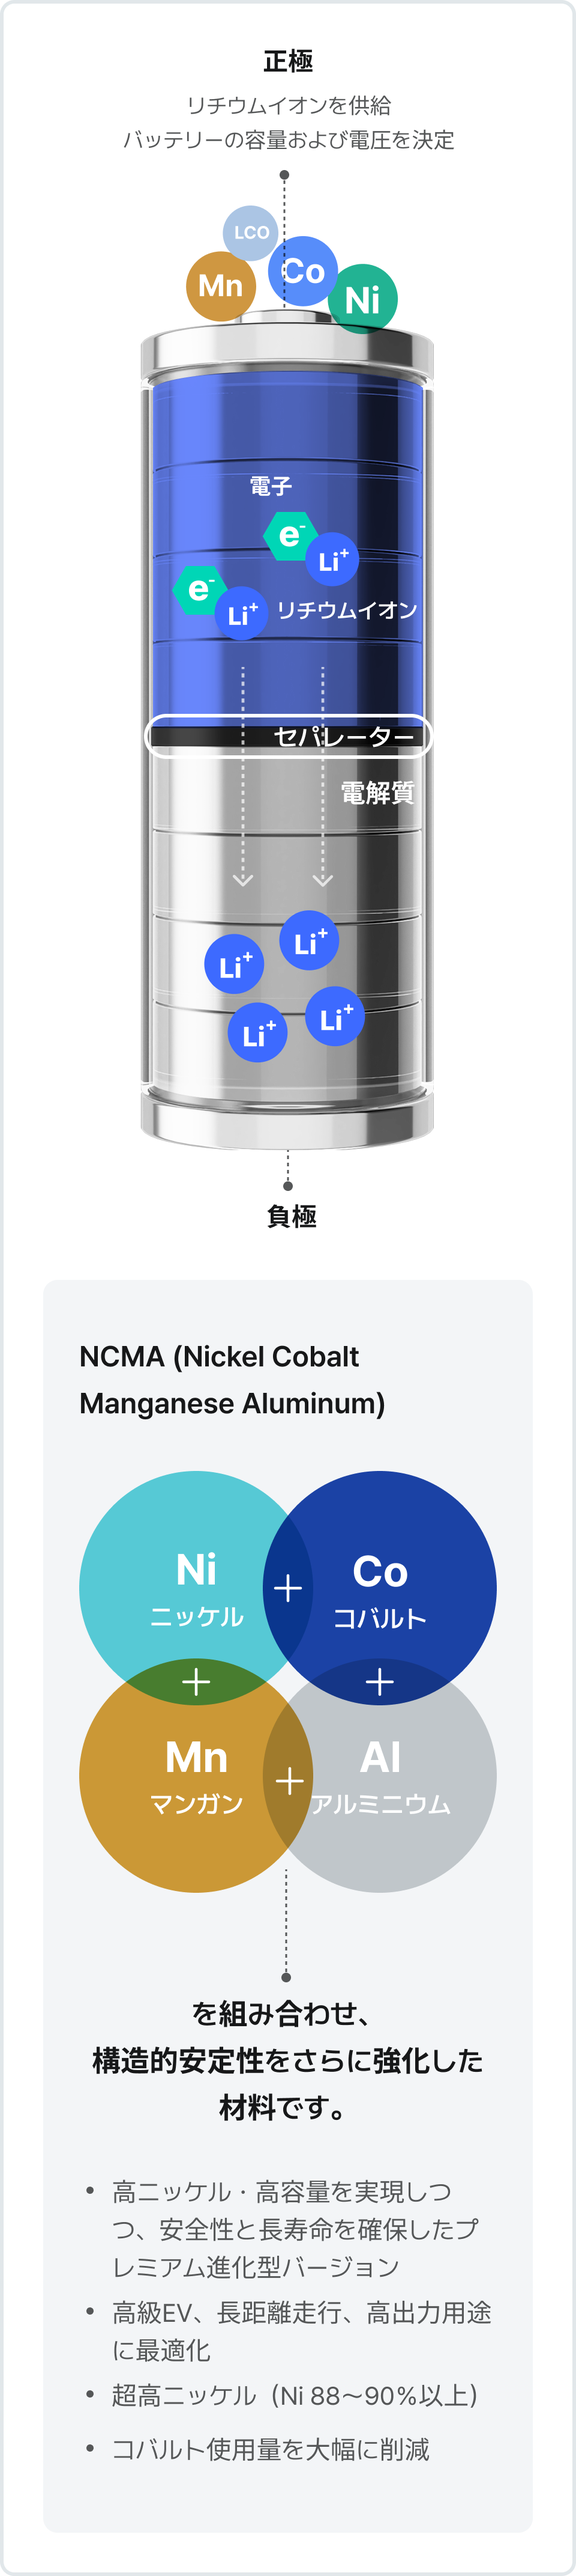
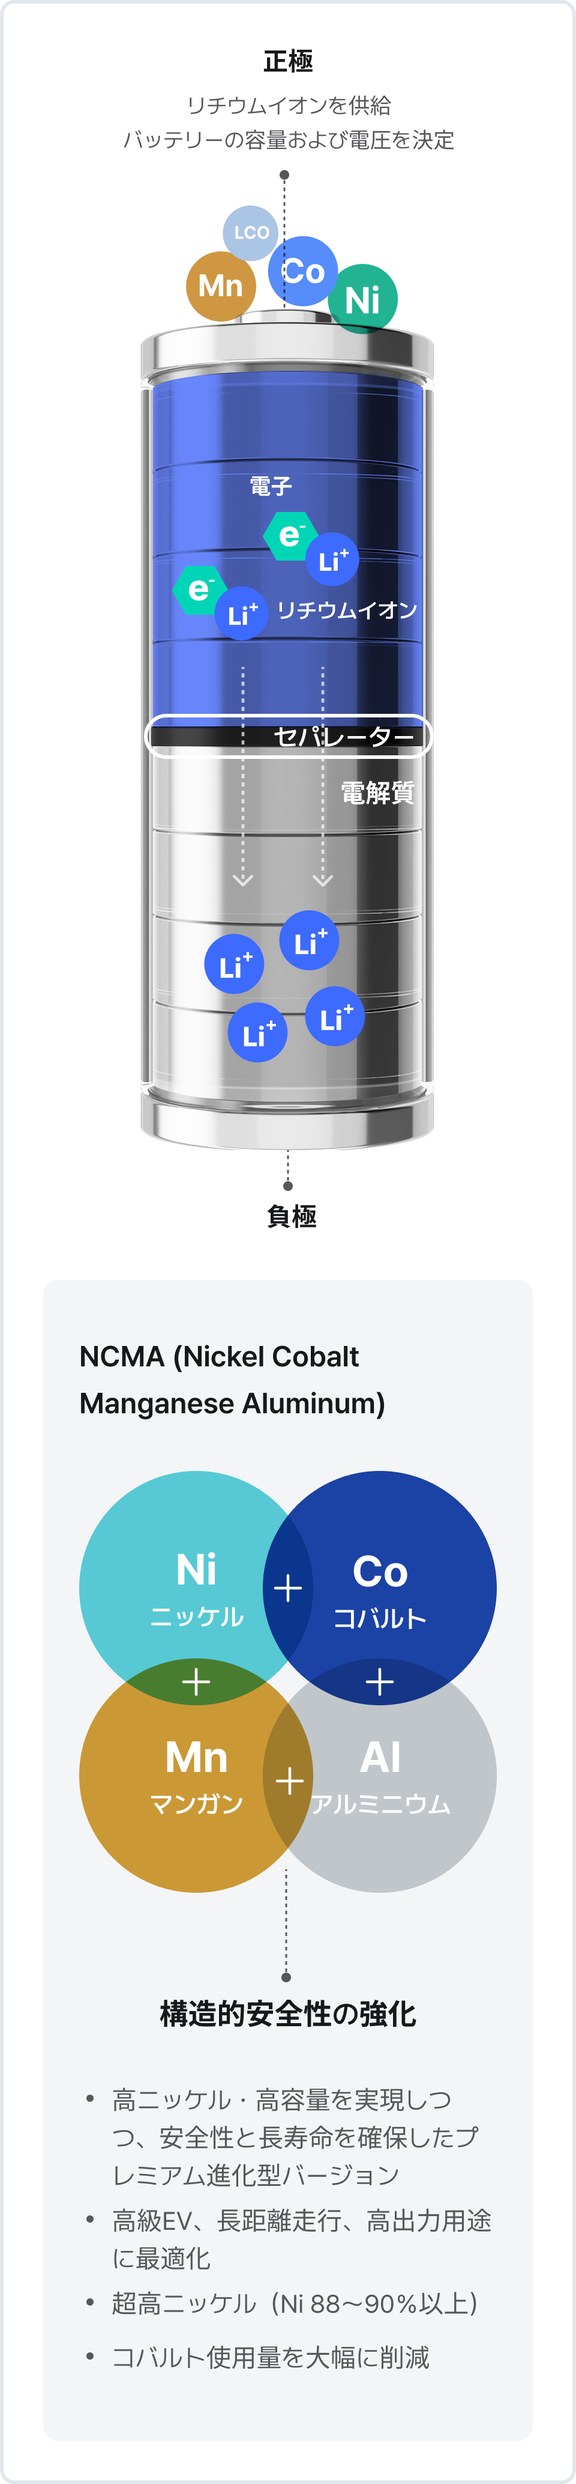
제품 검수 반영

Changed region(s): [[0.125, 0.0, 0.875, 0.9673], [0.8125, 0.7801, 0.8438, 0.8113]]

diff --git a/public/src/pages_ja/prod/prod_indus_psg_01_mo.html b/public/src/pages_ja/prod/prod_indus_psg_01_mo.html
@@ -133,7 +133,7 @@
                                                 <div class="btn-wrap">
                                                     <a href="#" class="icon-btn-lg icon-right2">
                                                         <img alt="" src="../../../inc/images/img/pind_btn_icon1.png">
-                                                        <span>円筒型電池</span>
+                                                        <span>円筒形電池</span>
                                                         <div class="icon-area"><span class="blind">現在のウィンドウで開く</span>
                                                         </div>
                                                     </a>
@@ -303,7 +303,7 @@
                                                 <div class="btn-wrap">
                                                     <a href="#" class="icon-btn-lg icon-right2">
                                                         <img alt="" src="../../../inc/images/img/pind_btn_icon1.png">
-                                                        <span>円筒型電池</span>
+                                                        <span>円筒形電池</span>
                                                         <div class="icon-area"><span class="blind">現在のウィンドウで開く</span>
                                                         </div>
                                                     </a>
@@ -640,7 +640,7 @@
                                                 <div class="btn-wrap">
                                                     <a href="#" class="icon-btn-lg icon-right2">
                                                         <img alt="" src="../../../inc/images/img/pind_btn_icon1.png">
-                                                        <span>円筒型電池</span>
+                                                        <span>円筒形電池</span>
                                                         <div class="icon-area"><span class="blind">現在のウィンドウで開く</span>
                                                         </div>
                                                     </a>
@@ -822,7 +822,7 @@
                                                         <p>セル</p>
                                                     </li>
                                                     <li>
-                                                        <p>モジュール</p>
+                                                        <p>パック</p>
                                                     </li>
                                                 </ul>
                                             </div>
@@ -950,7 +950,7 @@
                                                 <div class="btn-wrap">
                                                     <a href="#" class="icon-btn-lg icon-right2">
                                                         <img alt="" src="../../../inc/images/img/pind_btn_icon1.png">
-                                                        <span>円筒型電池</span>
+                                                        <span>円筒形電池</span>
                                                         <div class="icon-area"><span class="blind">現在のウィンドウで開く</span>
                                                         </div>
                                                     </a>
@@ -1105,7 +1105,7 @@
                                                 <div class="btn-wrap">
                                                     <a href="#" class="icon-btn-lg icon-right2">
                                                         <img alt="" src="../../../inc/images/img/pind_btn_icon1.png">
-                                                        <span>円筒型電池</span>
+                                                        <span>円筒形電池</span>
                                                         <div class="icon-area"><span class="blind">現在のウィンドウで開く</span>
                                                         </div>
                                                     </a>
@@ -1269,7 +1269,7 @@
                                                 <div class="btn-wrap">
                                                     <a href="#" class="icon-btn-lg icon-right2">
                                                         <img alt="" src="../../../inc/images/img/pind_btn_icon1.png">
-                                                        <span>円筒型電池</span>
+                                                        <span>円筒形電池</span>
                                                         <div class="icon-area"><span class="blind">現在のウィンドウで開く</span>
                                                         </div>
                                                     </a>
@@ -1432,7 +1432,7 @@
                                                 <div class="btn-wrap">
                                                     <a href="#" class="icon-btn-lg icon-right2">
                                                         <img alt="" src="../../../inc/images/img/pind_btn_icon1.png">
-                                                        <span>円筒型電池</span>
+                                                        <span>円筒形電池</span>
                                                         <div class="icon-area"><span class="blind">現在のウィンドウで開く</span>
                                                         </div>
                                                     </a>

diff --git a/public/src/pages_ja/prod/prod_indus_psg_01.html b/public/src/pages_ja/prod/prod_indus_psg_01.html
@@ -164,7 +164,7 @@
                                             <div class="btn-wrap">
                                                 <a href="#" class="icon-btn-lg icon-right2">
                                                     <img alt="" src="../../../inc/images/img/pind_btn_icon1.png">
-                                                    <span>円筒型電池</span>
+                                                    <span>円筒形電池</span>
                                                     <div class="icon-area"><span class="blind">現在のウィンドウで開く</span></div>
                                                 </a>
                                                 <a href="#" class="icon-btn-lg icon-right2">
@@ -326,7 +326,7 @@
                                             <div class="btn-wrap">
                                                 <a href="#" class="icon-btn-lg icon-right2">
                                                     <img alt="" src="../../../inc/images/img/pind_btn_icon1.png">
-                                                    <span>円筒型電池</span>
+                                                    <span>円筒形電池</span>
                                                     <div class="icon-area"><span class="blind">現在のウィンドウで開く</span></div>
                                                 </a>
                                                 <a href="#" class="icon-btn-lg icon-right2">
@@ -648,7 +648,7 @@
                                             <div class="btn-wrap">
                                                 <a href="#" class="icon-btn-lg icon-right2">
                                                     <img alt="" src="../../../inc/images/img/pind_btn_icon1.png">
-                                                    <span>円筒型電池</span>
+                                                    <span>円筒形電池</span>
                                                     <div class="icon-area"><span class="blind">現在のウィンドウで開く</span></div>
                                                 </a>
                                             </div>
@@ -822,7 +822,7 @@
                                                     <p>セル</p>
                                                 </li>
                                                 <li>
-                                                    <p>モジュール</p>
+                                                    <p>パック</p>
                                                 </li>
                                             </ul>
                                         </div>
@@ -946,7 +946,7 @@
                                             <div class="btn-wrap">
                                                 <a href="#" class="icon-btn-lg icon-right2">
                                                     <img alt="" src="../../../inc/images/img/pind_btn_icon1.png">
-                                                    <span>円筒型電池</span>
+                                                    <span>円筒形電池</span>
                                                     <div class="icon-area"><span class="blind">現在のウィンドウで開く</span></div>
                                                 </a>
                                             </div>
@@ -1095,7 +1095,7 @@
                                             <div class="btn-wrap">
                                                 <a href="#" class="icon-btn-lg icon-right2">
                                                     <img alt="" src="../../../inc/images/img/pind_btn_icon1.png">
-                                                    <span>円筒型電池</span>
+                                                    <span>円筒形電池</span>
                                                     <div class="icon-area"><span class="blind">現在のウィンドウで開く</span></div>
                                                 </a>
                                                 <a href="#" class="icon-btn-lg icon-right2">
@@ -1252,7 +1252,7 @@
                                             <div class="btn-wrap">
                                                 <a href="#" class="icon-btn-lg icon-right2">
                                                     <img alt="" src="../../../inc/images/img/pind_btn_icon1.png">
-                                                    <span>円筒型電池</span>
+                                                    <span>円筒形電池</span>
                                                     <div class="icon-area"><span class="blind">現在のウィンドウで開く</span></div>
                                                 </a>
                                                 <a href="#" class="icon-btn-lg icon-right2">
@@ -1409,7 +1409,7 @@
                                             <div class="btn-wrap">
                                                 <a href="#" class="icon-btn-lg icon-right2">
                                                     <img alt="" src="../../../inc/images/img/pind_btn_icon1.png">
-                                                    <span>円筒型電池</span>
+                                                    <span>円筒形電池</span>
                                                     <div class="icon-area"><span class="blind">現在のウィンドウで開く</span></div>
                                                 </a>
                                                 <a href="#" class="icon-btn-lg icon-right2">

diff --git a/public/src/pages_ja/prod/prod_form_cylindrical_01_mo.html b/public/src/pages_ja/prod/prod_form_cylindrical_01_mo.html
@@ -75,7 +75,7 @@
                                                         <div class="content-wrap">
                                                             <h2 class="title-h2">主要な競争力</h2>
                                                             <p class="title-desc">
-                                                                高エネルギー・高安全性を実現する46シリーズバッテリーは、High-Ni <br>NCMA材料と構造革新により、高いエネルギー密度と優れた安全性を両立しています。<br>セル高さの多様化により、顧客ニーズに応じた最適なソリューションを提供し、EV市場における競争力を強化しています。
+                                                                高エネルギー・高安全性を実現する46シリーズバッテリーは、High-Ni NCMA材料と構造革新により、高いエネルギー密度と優れた安全性を両立しています。<br>セル高さの多様化により、顧客ニーズに応じた最適なソリューションを提供し、EV市場における競争力を強化しています。
                                                             </p>
                                                             <div class="content-sect">
                                                                 <div class="prod-visual-wrap">
@@ -920,8 +920,8 @@
                                                                     </div>
                                                                     <div class="tech-desc-box">
                                                                         <div class="text-wrap">
-                                                                            <p class="tit">Zero Transition Zone（ZTZ）技術</p>
-                                                                            <p class="desc">Zero Transition Zone（ZTZ）プロセスを適用することで、負極のスライディングを最小化し、セル上部の膨張（Top Swelling）を防止します。<br>これにより、安定したエネルギー容量と長寿命を実現します。</p>
+                                                                            <p class="tit">Zero Transition Zone(ZTZ)技術</p>
+                                                                            <p class="desc">Zero Transition Zone（ZTZ）プロセスを適用することで、負極のスライディングを最小化し、セル上部の膨張（Top Swelling）を防止します。これにより、安定したエネルギー容量と長寿命を実現します。</p>
                                                                         </div>
                                                                         <div class="desc-box">
                                                                             <p class="tit">ZTZとは？</p>

diff --git a/public/src/pages_ja/prod/prod_form_cylindrical_01.html b/public/src/pages_ja/prod/prod_form_cylindrical_01.html
@@ -976,8 +976,8 @@
                                                             </div>
                                                             <div class="tech-desc-box">
                                                                 <div class="text-wrap">
-                                                                    <p class="tit">Zero Transition Zone（ZTZ）技術</p>
-                                                                    <p class="desc">Zero Transition Zone（ZTZ）プロセスを適用することで、負極のスライディングを最小化し、<br>セル上部の膨張（Top Swelling）を防止します。<br>これにより、安定したエネルギー容量と長寿命を実現します。</p>
+                                                                    <p class="tit">Zero Transition Zone(ZTZ)技術</p>
+                                                                    <p class="desc">Zero Transition Zone（ZTZ）プロセスを適用することで、負極のスライディングを最小化し、セル上部の膨張（Top Swelling）を防止<br>します。これにより、安定したエネルギー容量と長寿命を実現します。</p>
                                                                 </div>
                                                                 <div class="desc-box">
                                                                     <p class="tit">ZTZとは？</p>
@@ -1465,7 +1465,7 @@
 
                                                     <li><a href="#pch3-1" class="active">主要な競争力</a></li>
                                                     <li><a href="#pch3-2">製品技術力</a></li>
-                                                    <li><a href="#pch3-3">储能领域</a></li>
+                                                    <li><a href="#pch3-3">ESS事業分野</a></li>
                                                     <li><a href="#pch3-4">生産拠点</a></li>
                                                     <li><a href="#pch3-5">主な受注実績</a></li>
 

diff --git a/public/inc/css/Default/pages.css b/public/inc/css/Default/pages.css
@@ -1140,6 +1140,9 @@
 .pfom .tech-list .tech-box-col .box-wrap .box-col > p {font-size: 1.25rem; font-weight: 600; line-height: 2rem; color: var(--colorElement-light-text-text-default01); text-align: center;}
 .pfom .tech-list .tech-box-col .box-wrap .box-col .inner-wrap {display: flex; gap: 1.25rem; height: 100%;}
 .pfom .tech-list .tech-box-col .box-wrap .box-col .inner-wrap .inner-box {display: flex; flex-direction: column; justify-content: center; gap: 0.625rem; align-items: center; width: 19.688rem; padding: 1.25rem; border-radius: 0.5rem; background-color: var(--colorElement-light-fill-fill-default04); text-align: center;}
+.pfom:lang(ja) .tech-list .tech-box-col .box-wrap .box-col .inner-wrap .inner-box{justify-content: flex-start;}
+.pfom:lang(ja) .tech-list .tech-box-col .box-wrap .box-col + .box-col .inner-wrap .inner-box{justify-content: center;}
+
 .pfom #tab2-2-2-content .tech-list .tech-box-col .box-wrap .box-col .inner-wrap .inner-box {width: 100%;}
 .pfom .tech-list .tech-box-col .box-wrap .box-col .inner-wrap .inner-box .tit {font-size: 1.125rem; font-weight: 600; line-height: 1.8rem; color: var(--colorElement-light-text-text-default01);}
 .pfom .tech-list .tech-box-col .box-wrap .box-col .inner-wrap .inner-box .desc {font-size: 1rem; font-weight: 400; line-height: 1.6rem; color: var(--colorElement-light-text-text-default02);}

diff --git a/public/inc/css/media/pages.css b/public/inc/css/media/pages.css
@@ -1151,7 +1151,7 @@
 .pfom .line-up-box .line-up-wrap .line-up-info > div {padding: 1.5rem; border-radius: 0.5rem;}
 .pfom .line-up-box .line-up-wrap .line-up-info .tit {font-size: 1.125rem; line-height: 1.75rem; margin-bottom: 1rem;}
 .pfom .line-up-box .line-up-wrap .line-up-info .col-flex {gap: 0.5rem;}
-.pfom .line-up-box .line-up-wrap .line-up-info .col-flex > div > img {width: 6.875rem; height: 6.875rem;}
+.pfom .line-up-box .line-up-wrap .line-up-info .col-flex > div > img {width: 64%; height: auto; min-width: 6.875rem;min-height:6.875rem;;}
 .pfom .line-up-box .line-up-wrap .line-up-info .col-flex > div > p {font-size: 0.875rem; line-height: 1.3125rem;}
 .pfom .line-up-box .line-up-wrap .line-up-info .col-flex > div > p > span {font-size: 0.75rem; line-height: 1.2rem; margin-top: 0.25rem;}
 .pfom .line-up-box .line-up-wrap .line-up-info .col-flex .arrow {width: 2rem; height: auto; margin-top: 2.5rem; margin-right: 0;}

diff --git a/public/src/pages_ja/prod/prod_mtrl_ncm_01.html b/public/src/pages_ja/prod/prod_mtrl_ncm_01.html
@@ -255,7 +255,7 @@
                                                         <a href="#" class="icon-btn-lg">
                                                             <img alt=""
                                                                 src="../../../inc/images/img/pmtl_btn_icon1.png">
-                                                            <span>円筒型電池</span>
+                                                            <span>円筒形電池</span>
                                                             <div class="icon-area"><span class="blind">現在のタブで開く</span>
                                                             </div>
                                                         </a>

diff --git a/public/src/pages_ja/prod/prod_mtrl_ncm_01_mo.html b/public/src/pages_ja/prod/prod_mtrl_ncm_01_mo.html
@@ -215,7 +215,7 @@
                                                         <a href="#" class="icon-btn-lg">
                                                             <img alt=""
                                                                 src="../../../inc/images/img/pmtl_btn_icon1.png">
-                                                            <span>円筒型電池</span>
+                                                            <span>円筒形電池</span>
                                                             <div class="icon-area"><span class="blind">現在のタブで開く</span>
                                                             </div>
                                                         </a>
